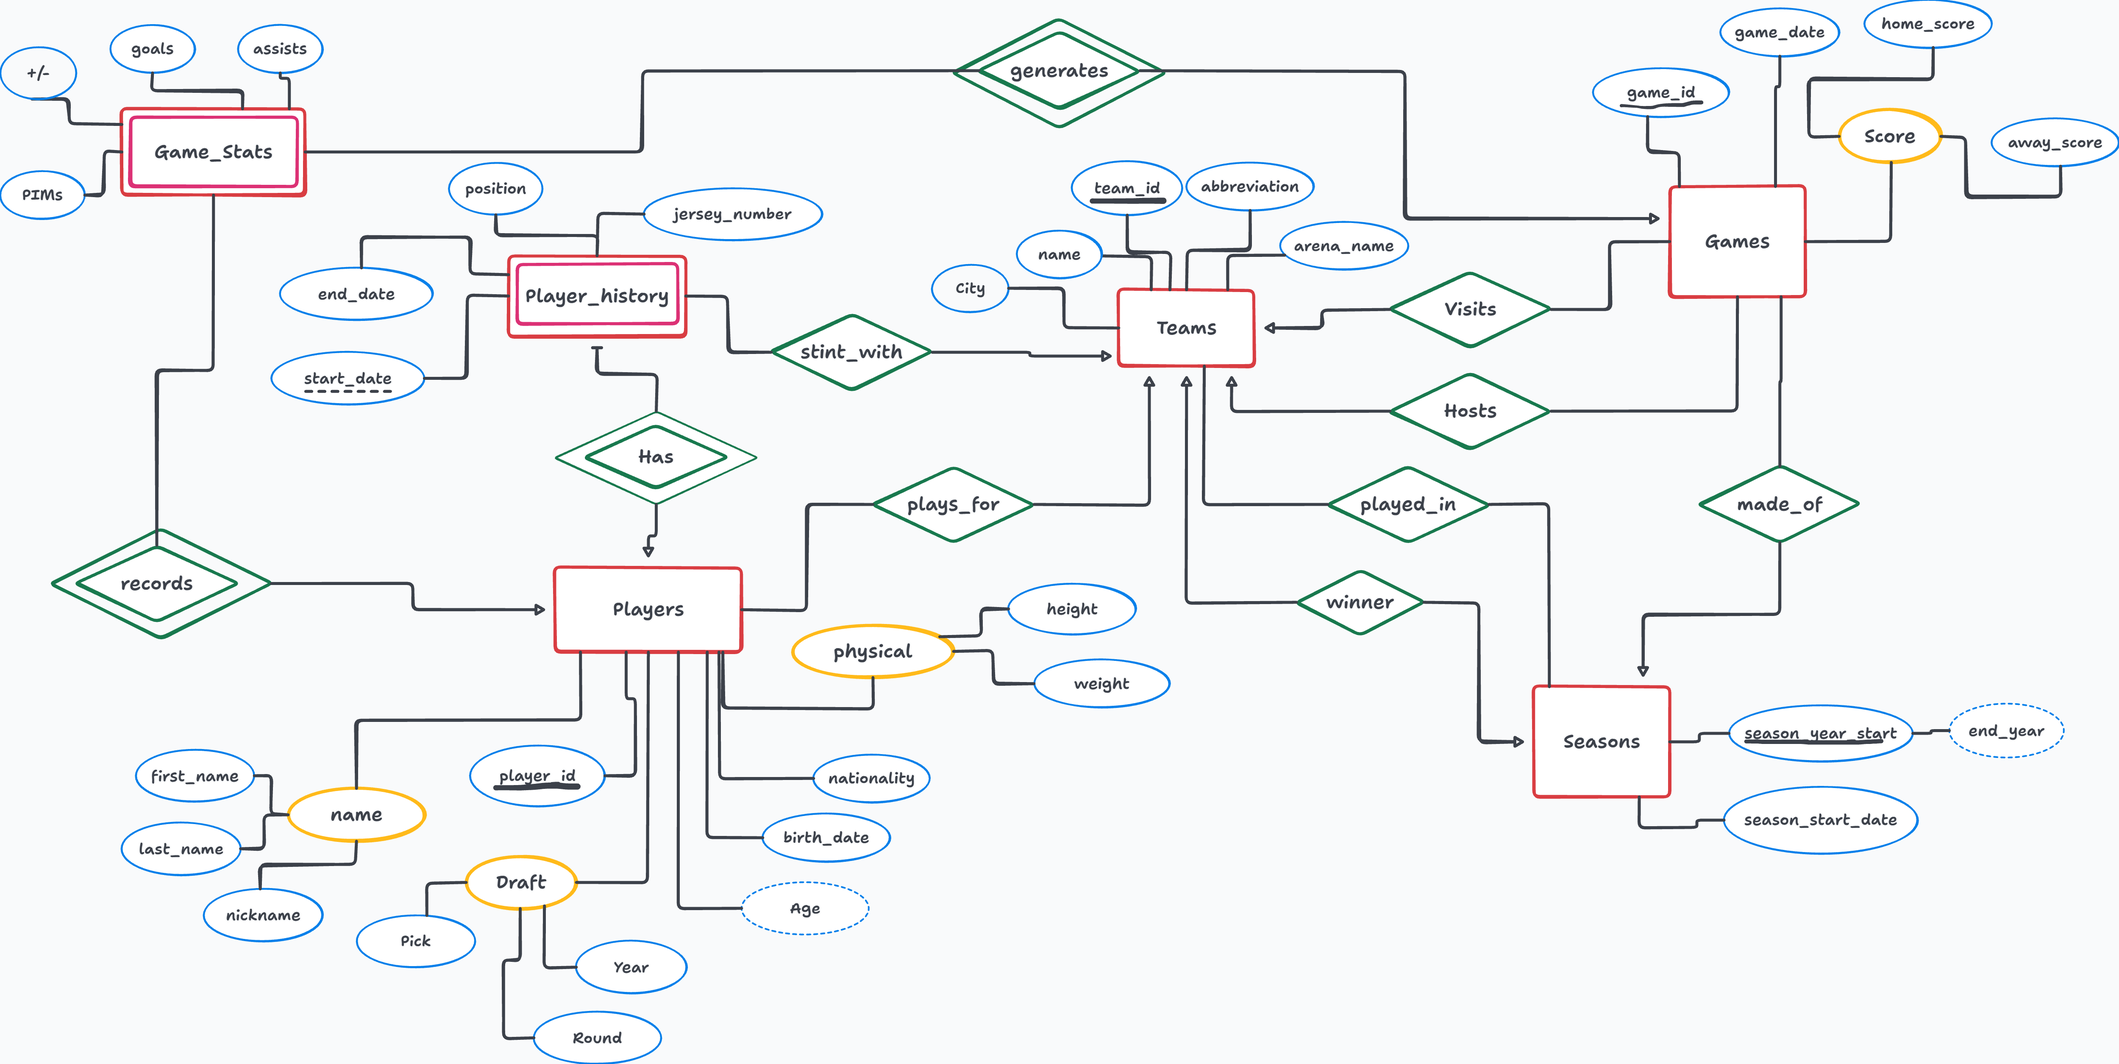
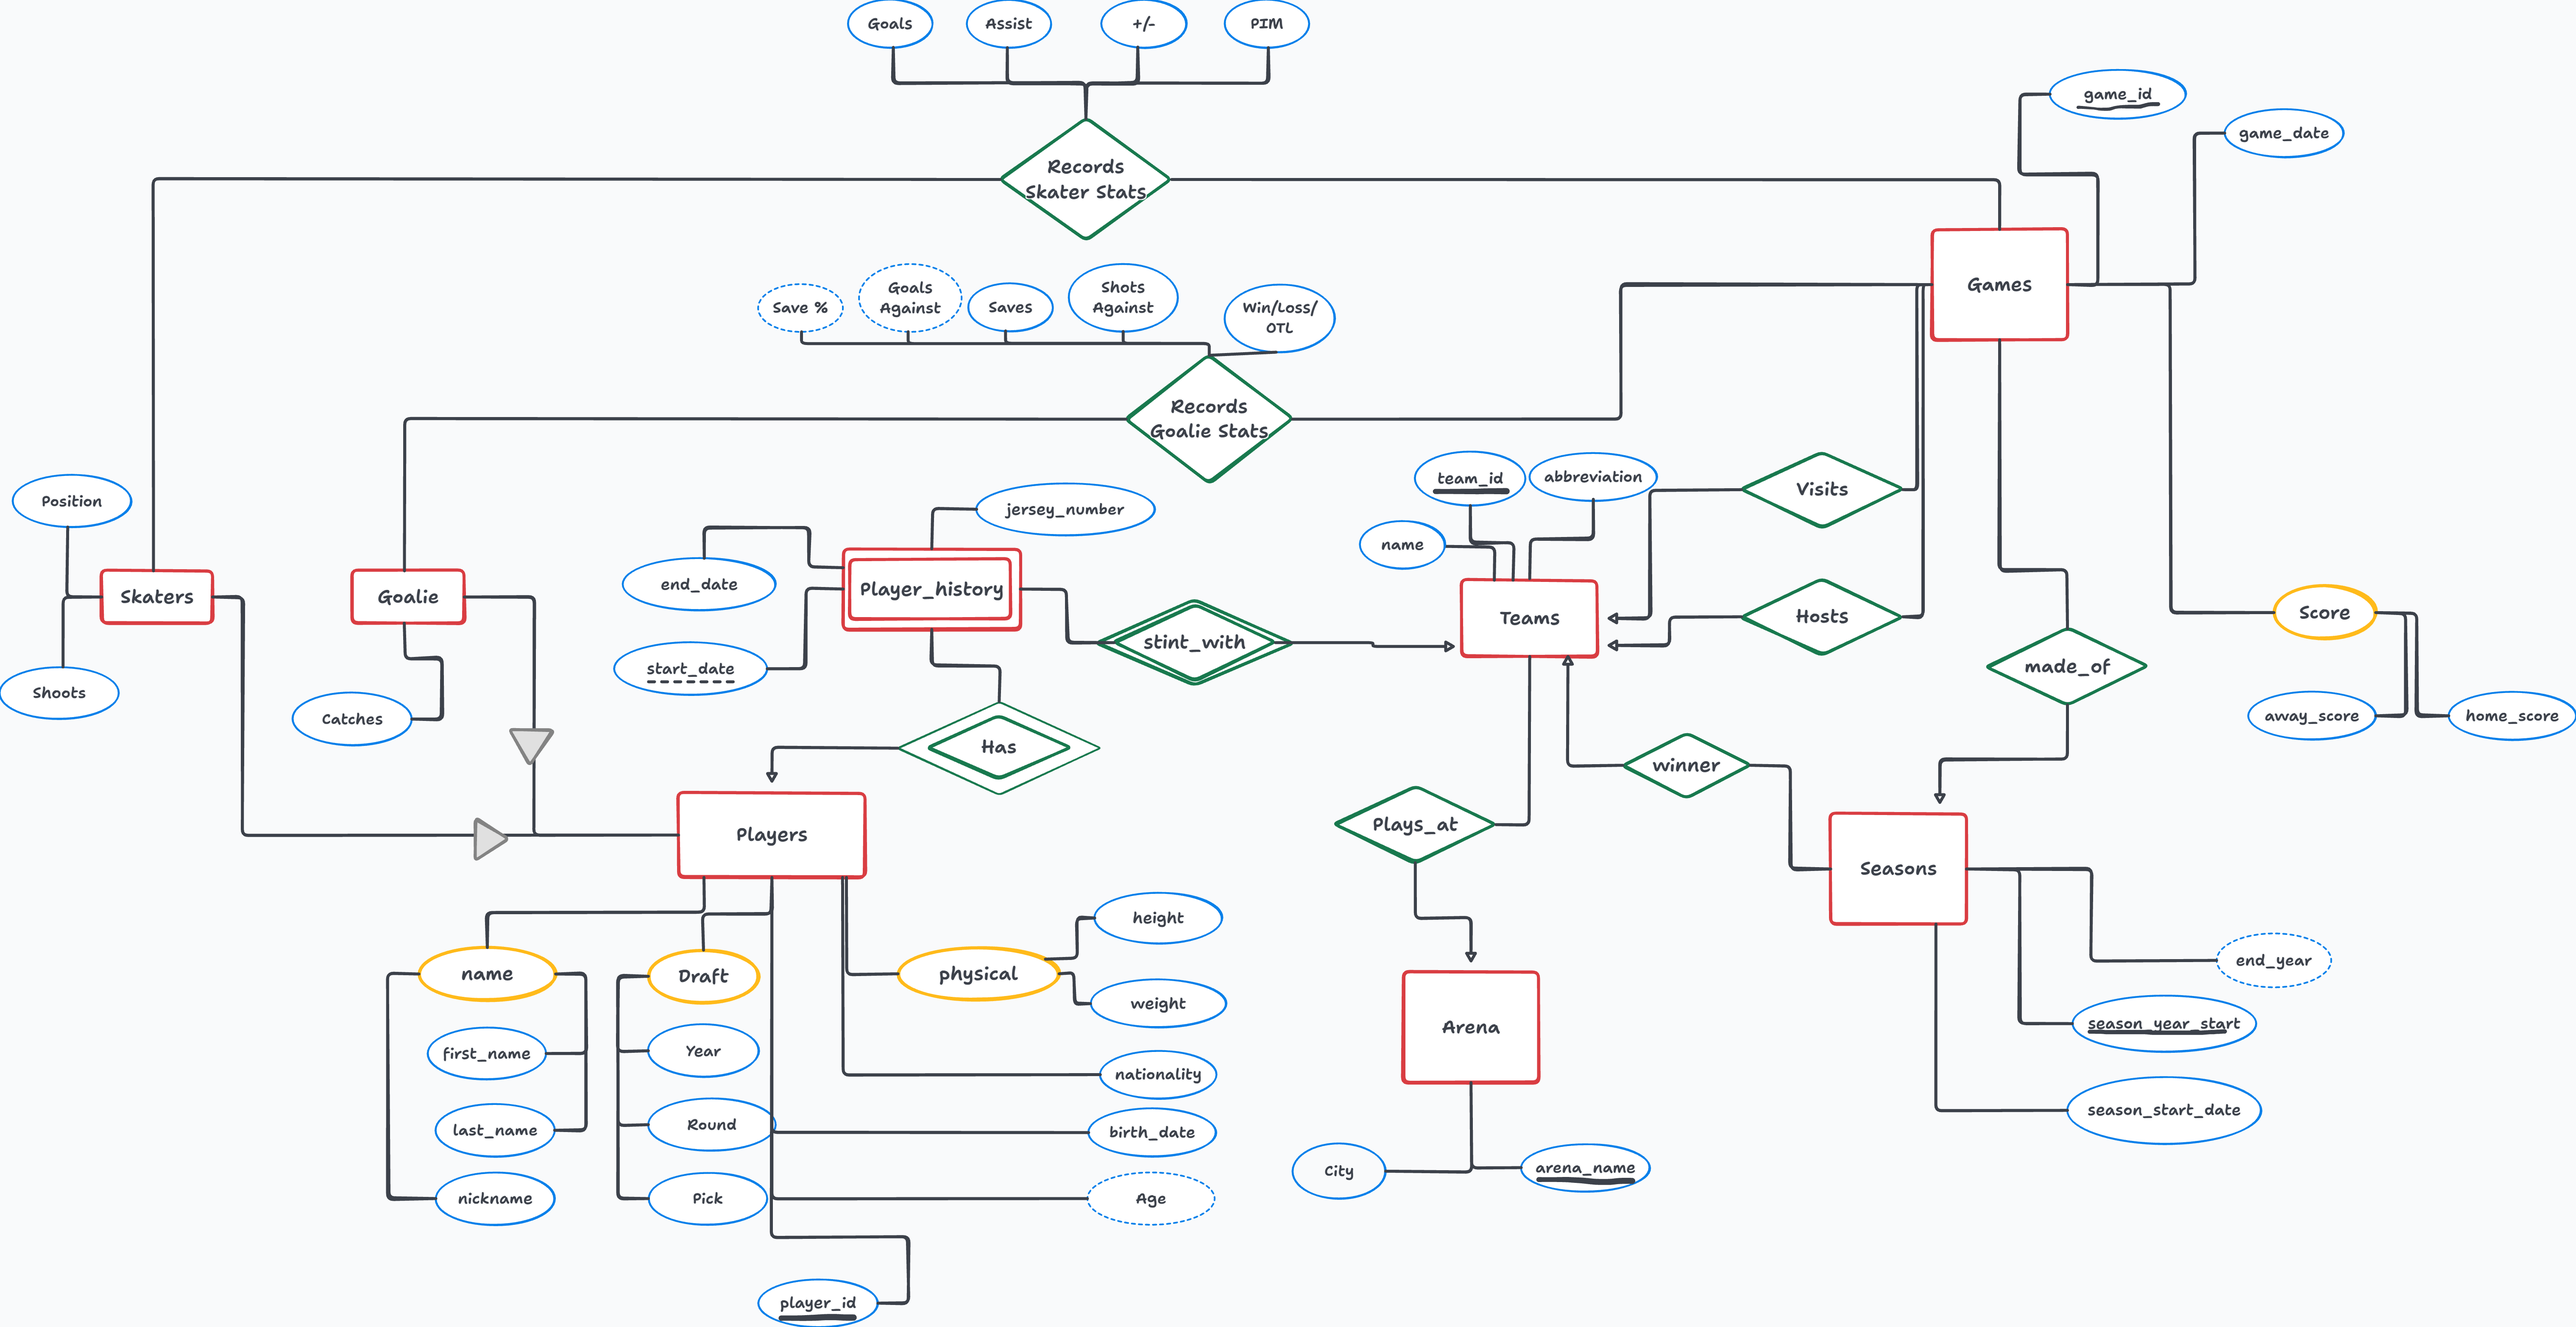
Final commit for Sprint 1

diff --git a/README.md b/README.md
@@ -8,7 +8,6 @@ and the players on those teams, including their per-game stats.
 | `docs/ERD.png` | Entity Relationship Diagram |
 | `docs/bcnf` | BCNF analysis |
 | `sql/schema.sql` | SQL DDL (MySQL 8.0.16+) |
-| `sql/dml.sql` | Inserts and deletes (to do) |
 | `CHANGELOG.md` | Every design change and why |
 
 ## How to run
@@ -27,7 +26,7 @@ mysql -u <user> -p <database> < sql/schema.sql
 - Check the ERD against the eight design criteria
 - Compare our design in 3NF and 4NF
 - Re-evaluate our weak entities
-- Insert and delete data based on query predicates (SQL DML)
+~~- Insert and delete data based on query predicates (SQL DML)~~ (moved to Sprint 2 goals)
 
 ---
 
@@ -53,8 +52,8 @@ Functional dependencies (FDs) for each table. Every left side is a key, so each 
 | Table | FDs |
 |-------|-----|
 | Arenas | arena_name → city |
-| Teams | team_id → name, abbreviation, arena_name ; abbreviation → team_id |
-| Seasons | season_year_start → season_start_date, winner_team_id |
+| Teams | team_id → name, abbreviation, arena_name ; abbreviation → team_id ; name → team_id |
+| Seasons | season_year_start → season_start_date, winning_team_id |
 | Players | player_id → all ; (draft_year, draft_round, draft_pick) → player_id |
 | Skaters | player_id → position, shoots |
 | Goalies | player_id → catches |
@@ -73,11 +72,9 @@ Functional dependencies (FDs) for each table. Every left side is a key, so each 
 - A game's date falls inside its season.
 - home_team_id ≠ away_team_id (CHECK in schema.sql).
 
-## 5. SQL DML
-To do: `sql/dml.sql` with sample inserts and deletes based on query predicates.
-
 ---
 
 ## Next sprint
 - Add game_type (regular / playoff) to Games
 - Write queries over the stats
+- Insert and delete data based on query predicates (SQL DML)

diff --git a/docs/CHANGELOG.md b/docs/CHANGELOG.md
@@ -1,0 +1,18 @@
+## ERD
+- Split Players into Skaters and Goalie 
+- Split stats into Records Skater Stats and Records Goalie Stats
+- Save %, Goals Against, Age, end_year marked as derived
+- winner now points only to Teams (a team can win many seasons)
+- Removed plays_for (duplicate: current team = Player_history row with no end_date)
+- Removed played_in (duplicate: teams in a season can be found from Games)
+- Added Arena (arena_name, City) with Plays_at; moved City off Teams (city depends on arena, not team)
+- Removed made_of to Seasons
+
+## Schema
+- Added Arenas table
+- Teams: removed city, arena_name now references Arenas, name is now UNIQUE
+- Players: removed current_team_id
+- Removed Played_In table
+- Seasons: renamed winner_team_id to winning_team_id
+- Goalie_Game_Stats: decision is NULL when a goalie played but wasn't the goalie of record
+- Added DROP TABLE lines so the script can be re-run from scratch
